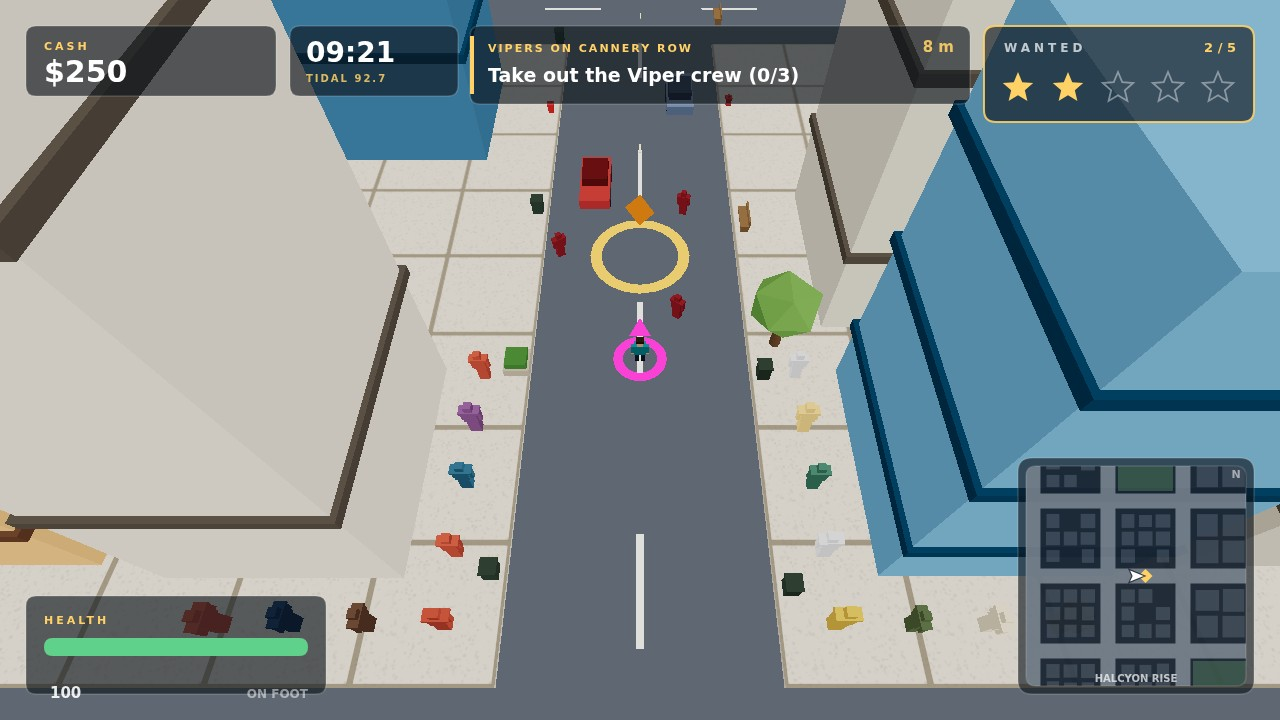
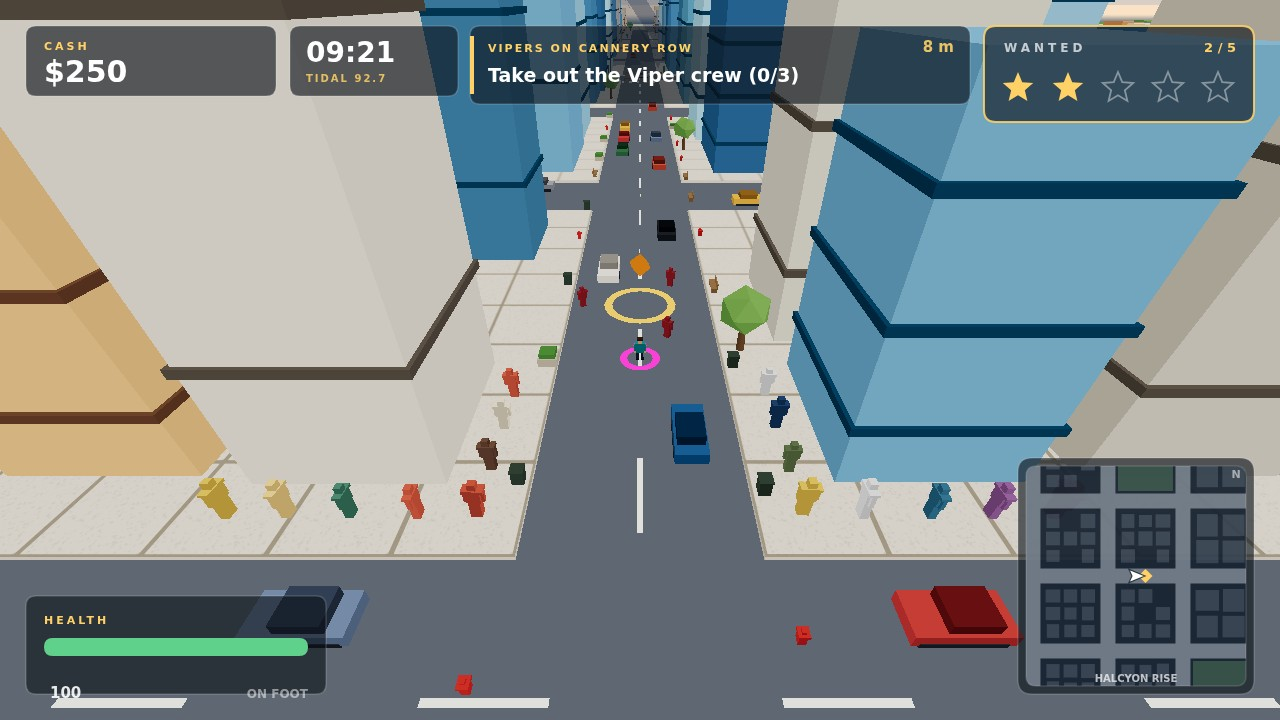
Open the cover camera up so the avenue fills with traffic and a crowd

diff --git a/game/src/config.js b/game/src/config.js
@@ -73,17 +73,25 @@ export const COUNTS = {
 
 // The follow camera hangs `back` units behind the player and `height` above the road,
 // aimed at ground level under the player's feet (lookHeight 0). Those two numbers alone
-// fix the pitch: atan(29.2 / 19.4), a touch under 57 degrees down, which is the high
-// three-quarter angle the cover shot is composed for. A 60 degree vertical lens then
-// reaches from the player's heels to roughly forty units up the avenue, wide enough at
-// this aspect to keep both kerbs and the tower line in shot. The near plane is short so
-// the figure never clips, and the far plane comfortably clears the water.
+// fix the pitch: atan(22 / 30), about 36 degrees down, which is a high three-quarter
+// angle that still keeps the tower line and its long shadows in the frame.
+//
+// These numbers were picked by measurement, not by eye. Each candidate setup was loaded
+// in a throwaway copy of the game, every instanced object was projected with
+// Vector3.project(camera), and the ones landing inside |ndc| <= 1 in front of the camera
+// were counted on the city scene. The old setup (fov 60, back 19.4, height 29.2) framed
+// only 33 traffic cars, 47 pedestrians and 8 parked vehicles, because its 57 degree pitch
+// and short back distance reached barely fifty units up the avenue. Widening the lens and
+// pulling the camera back and down filled the street: fov 72, back 30, height 22 measured
+// 237 cars, 146 pedestrians and 39 vehicles in frame, the best of the sweep, while the
+// still-steep-enough angle keeps the skyline readable. The near plane is short so the
+// figure never clips, and the far plane comfortably clears the water.
 export const CAMERA = {
-  fov: 60,
+  fov: 72,
   near: 0.4,
   far: 2400,
-  back: 19.4,
-  height: 29.2,
+  back: 30.0,
+  height: 22.0,
   lookHeight: 0.0,
   lookAhead: 0,
   ease: 8,
